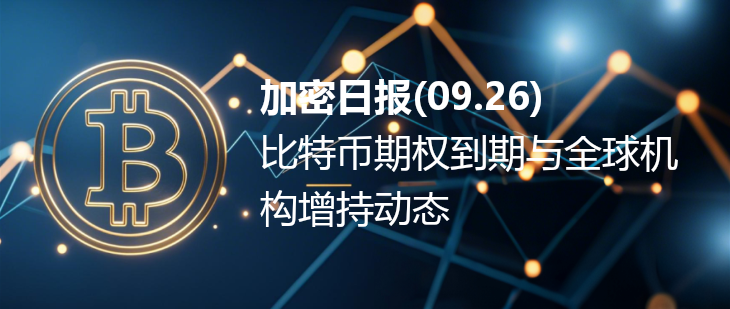
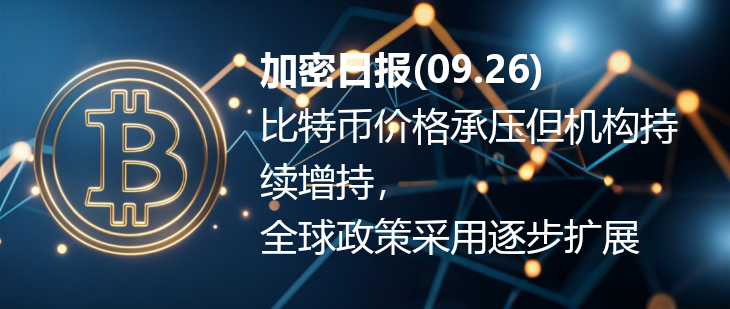
daily_news

Changed region(s): [[0.3315, 0.1748, 0.9342, 0.8447]]

diff --git a/files/latest_summary.md b/files/latest_summary.md
@@ -1,40 +1,46 @@
-### 一、比特币价格预测、期权到期及短期市场分析  
-**总结**：  
-1. 市场对2025年底比特币价格存在乐观预测，分析师Tom Lee预计其将达20-25万美元，以太坊目标1-1.2万美元，认为机构资金流入及合规优势是关键驱动因素。  
-2. 226亿美元比特币月度期权于周五到期，Deribit未平仓量达174亿美元，看涨期权占优，市场整体倾向多头，但需警惕跌破112,000美元的下行风险，112,000美元为动能关键位。  
-3. Deribit本周五将迎来15.4万枚BTC期权到期，名义价值173.8亿美元，最大痛点价11万美元，认沽认购比0.77，中性至看涨预期明显。  
-4. 比特币近期跌至两周低点108,865美元，亚洲交易时段卖盘削弱美国反弹，现货市场买卖比率首次倾向买家，显示当前价格需求增加。  
-5. 技术面分析显示比特币在111,000美元附近面临关键支撑，短期看跌信号明显，若跌破可能下探107,000美元，需关注112,000美元关口得失。  
+### 一、比特币价格波动与期权市场动态
+**总结**：
+1. 比特币近期价格波动较大，跌至两周低点，现货市场买家增加配置，112,000美元关口成为关键支撑位，跌破或下探107,000美元。
+2. 226亿美元比特币月度期权于周五到期，Deribit未平仓量达174亿美元，市场整体倾向多头，但需警惕跌破112,000美元的下行风险，看跌期权集中于110,000美元及以下。
+3. Deribit本周五将迎来15.4万枚BTC期权到期，名义价值173.8亿美元，最大痛点价11万美元，认沽认购比0.77，市场多空博弈激烈。
+4. 技术面显示比特币在111,000美元附近面临关键支撑，短期空头占优，长期移动平均线仍发出看涨信号，113,500美元为突破关键阻力位。
 
-**参考**：  
-- [Tom Lee：预计年底比特币（BTC）将涨至20-25 万美元，以太坊目标位1-1.2 万美元](https://cn.cointelegraph.com/news/tom-lee-projects-bitcoin-price-surge-to-dollar200k-dollar250k-targets-ethereum-at-dollar10k-dollar12k-by-year-end)  
-- [在226亿美元比特币（BTC）月度期权到期之际，多头占优但空头仍在潜伏](https://cn.cointelegraph.com/news/bitcoin-bulls-favored-in-22-6b-btc-monthly-options-expiry)  
-- [Deribit 本周五将迎来15.4 万枚BTC 期权到期，名义价值173.8 亿美元](https://finance.sina.com.cn/blockchain/roll/2025-09-26/doc-infrtuah0961231.shtml)  
-- [当价格跌至$111K时，多头如履薄冰，最后的防线](https://news.bitcoin.com/zh/bitcoin-jiage-guanchat-dang-jiage-dizhi-111k-shi-duotou-rulv-bobing-zuihou-de-fangxian/)  
-- [Bitcoin 跌至两周低点，现货买家增加配置](https://www.binance.com/cn/square/post/30173911710602)  
+**参考**：
+- [Bitcoin跌至两周低点，现货买家增加配置](https://www.binance.com/cn/square/post/30173911710602)
+- [在226亿美元比特币（BTC）月度期权到期之际，多头占优但空头仍在潜伏](https://cn.cointelegraph.com/news/bitcoin-bulls-favored-in-22-6b-btc-monthly-options-expiry)
+- [Deribit 本周五将迎来15.4 万枚BTC 期权到期，名义价值173.8 亿美元](https://finance.sina.com.cn/blockchain/roll/2025-09-26/doc-infrtuah0961231.shtml)
+- [当价格跌至$111K时，多头如履薄冰，最后的防线](https://news.bitcoin.com/zh/bitcoin-jiage-guanchat-dang-jiage-dizhi-111k-shi-duotou-rulv-bobing-zuihou-de-fangxian/)
 
 
-### 二、比特币资金流动与企业增持动态  
-**总结**：  
-1. 美国比特币ETF资金流入显著，10只比特币ETF今日净流入2186枚BTC，而以太坊ETF净流出29764枚ETH，显示市场对BTC需求较强。  
-2. 某新建地址近期从交易平台提取1,524枚比特币，价值约1.71亿美元，资金动向引发关注。  
-3. DDC Enterprise向资金库增加50个比特币，总持有量达1,058 BTC，平均成本108,665美元，目标2025年底累积10,000枚。  
-4. 纳斯达克上市公司POP Culture拟将比特币财库扩大至1000枚，以支持1亿美元数字潮流基金“Crypto Pop Fund”，此前已买入300枚。  
-5. Scilex Holding Company完成价值2亿美元的比特币交易，通过所持Semnur Pharmaceuticals普通股换取比特币，加密账户已收到该笔资金。  
+### 二、企业及机构对比特币的增持与战略采用
+**总结**：
+1. DDC Enterprise向资金库增加50个比特币，总持有量达1,058 BTC，价值8950万美元，平均成本108,665美元，目标年底累积10,000 BTC。
+2. 某新建地址近期从交易平台提取1,524枚比特币，价值约1.71亿美元，显示大额资金动向。
+3. 纳斯达克上市公司POP Culture拟将比特币财库规模扩大至1000枚BTC，以支持1亿美元数字潮流基金“Crypto Pop Fund”，上周已买入300枚。
+4. Scilex Holding Company完成价值2亿美元的比特币交易，通过所持Semnur Pharmaceuticals股票换取比特币，目前加密账户已收到该笔资金。
+5. 企业比特币采用率持续增长，2024年激增，70%企业未出售持有的比特币，95%计划扩大投资组合，将其视为长期价值保值工具以对冲通胀、分散资金。
 
-**参考**：  
-- [数据：今日10 只美国比特币ETF 净流入2186 枚BTC，9 只以太坊ETF 净流出29764 枚ETH](https://www.chaincatcher.com/article/2208546)  
-- [某新建地址近期增持1,524枚BTC，价值约1.71亿美元](https://www.odaily.news/zh-CN/newsflash/449919)  
-- [DDC Enterprise向资金库增加50个比特币](https://cn.investing.com/news/company-news/article-93CH-3001323)  
-- [POP Culture计划扩大比特币财库至1000枚以支持1亿美元基金](https://www.binance.com/zh-CN/square/post/09-25-2025-pop-culture-1000-1-30165325573513)  
-- [Scilex Holding Company 完成价值2 亿美元的比特币交易](https://www.binance.com/zh-CN/square/post/09-25-2025-scilex-holding-company-2-30159164570170)  
-
-
-### 三、比特币全球采用与企业战略  
-**总结**：  
-1. Bitcoin Policy Institute数据显示，全球已有27个国家积极持有或使用比特币，另有13个国家正在考虑相关提案，涉及储备、挖矿、养老金和税收等领域。  
-2. 企业界将比特币作为长期价值保值工具，2025年9月企业持有的比特币数量超683,332枚，占总供应量3.3%，自2020年增长587%；企业通过配置现金储备、利用公允市场价值报告等方式实现资本多元化，同时将比特币作为品牌推广工具。  
-
-**参考**：  
-- [Bitcoin Policy Institute：全球27 个国家积极持有或使用比特币](https://www.chaincatcher.com/article/2208553)  
+**参考**：
+- [DDC Enterprise向资金库增加50个比特币](https://cn.investing.com/news/company-news/article-93CH-3001323)
+- [某新建地址近期增持1,524枚BTC，价值约1.71亿美元](https://www.odaily.news/zh-CN/newsflash/449919)
+- [POP Culture计划扩大比特币财库至1000枚以支持1亿美元基金](https://www.binance.com/zh-CN/square/post/09-25-2025-pop-culture-1000-1-30165325573513)
+- [Scilex Holding Company 完成价值2 亿美元的比特币交易](https://www.binance.com/zh-CN/square/post/09-25-2025-scilex-holding-company-2-30159164570170)
 - [企业采用比特币：实现长期价值保值的财务管理战略转变](https://m.528btc.com/column/article/610194.html)
+
+
+### 三、比特币ETF资金流动情况
+**总结**：
+1. 今日10只美国比特币ETF净流入2186枚BTC，9只以太坊ETF净流出29764枚ETH，显示比特币ETF资金持续流入，而以太坊相关ETF资金流出。
+
+**参考**：
+- [比特币ETF今日净流入2186枚BTC](https://www.mitrade.com/cn/insights/news/live-news/article-3-1150409-20250925)
+- [数据：今日10 只美国比特币ETF 净流入2186 枚BTC，9 只以太坊ETF 净流出29764 枚ETH](https://www.chaincatcher.com/article/2208546)
+- [数据：今日10 只美国比特币ETF 净流入2186 枚BTC，9 只以太坊ETF 净流出29764 枚ETH](https://www.techflowpost.com/newsletter/detail_99926.html)
+
+
+### 四、比特币全球政策与采用范围扩展
+**总结**：
+1. Bitcoin Policy Institute数据显示，全球有27个国家积极持有或使用比特币，另有13个国家正在考虑相关提案，涉及储备、挖矿、养老金和税收等领域，比特币全球采用范围持续扩大。
+
+**参考**：
+- [Bitcoin Policy Institute：全球27 个国家积极持有或使用比特币](https://www.chaincatcher.com/article/2208553)

diff --git a/files/latest_summary_cleaned.md b/files/latest_summary_cleaned.md
@@ -1,17 +1,18 @@
-### 一、比特币价格预测、期权到期及短期市场分析  
-1. 市场对2025年底比特币价格存在乐观预测，分析师Tom Lee预计其将达20-25万美元，以太坊目标1-1.2万美元，认为机构资金流入及合规优势是关键驱动因素。  
-2. 226亿美元比特币月度期权于周五到期，Deribit未平仓量达174亿美元，看涨期权占优，市场整体倾向多头，但需警惕跌破112,000美元的下行风险，112,000美元为动能关键位。  
-3. Deribit本周五将迎来15.4万枚BTC期权到期，名义价值173.8亿美元，最大痛点价11万美元，认沽认购比0.77，中性至看涨预期明显。  
-4. 比特币近期跌至两周低点108,865美元，亚洲交易时段卖盘削弱美国反弹，现货市场买卖比率首次倾向买家，显示当前价格需求增加。  
-5. 技术面分析显示比特币在111,000美元附近面临关键支撑，短期看跌信号明显，若跌破可能下探107,000美元，需关注112,000美元关口得失。  
+### 一、比特币价格波动与期权市场动态
+1. 比特币近期价格波动较大，跌至两周低点，现货市场买家增加配置，112,000美元关口成为关键支撑位，跌破或下探107,000美元。
+2. 226亿美元比特币月度期权于周五到期，Deribit未平仓量达174亿美元，市场整体倾向多头，但需警惕跌破112,000美元的下行风险，看跌期权集中于110,000美元及以下。
+3. Deribit本周五将迎来15.4万枚BTC期权到期，名义价值173.8亿美元，最大痛点价11万美元，认沽认购比0.77，市场多空博弈激烈。
+4. 技术面显示比特币在111,000美元附近面临关键支撑，短期空头占优，长期移动平均线仍发出看涨信号，113,500美元为突破关键阻力位。
 
-### 二、比特币资金流动与企业增持动态  
-1. 美国比特币ETF资金流入显著，10只比特币ETF今日净流入2186枚BTC，而以太坊ETF净流出29764枚ETH，显示市场对BTC需求较强。  
-2. 某新建地址近期从交易平台提取1,524枚比特币，价值约1.71亿美元，资金动向引发关注。  
-3. DDC Enterprise向资金库增加50个比特币，总持有量达1,058 BTC，平均成本108,665美元，目标2025年底累积10,000枚。  
-4. 纳斯达克上市公司POP Culture拟将比特币财库扩大至1000枚，以支持1亿美元数字潮流基金“Crypto Pop Fund”，此前已买入300枚。  
-5. Scilex Holding Company完成价值2亿美元的比特币交易，通过所持Semnur Pharmaceuticals普通股换取比特币，加密账户已收到该笔资金。  
+### 二、企业及机构对比特币的增持与战略采用
+1. DDC Enterprise向资金库增加50个比特币，总持有量达1,058 BTC，价值8950万美元，平均成本108,665美元，目标年底累积10,000 BTC。
+2. 某新建地址近期从交易平台提取1,524枚比特币，价值约1.71亿美元，显示大额资金动向。
+3. 纳斯达克上市公司POP Culture拟将比特币财库规模扩大至1000枚BTC，以支持1亿美元数字潮流基金“Crypto Pop Fund”，上周已买入300枚。
+4. Scilex Holding Company完成价值2亿美元的比特币交易，通过所持Semnur Pharmaceuticals股票换取比特币，目前加密账户已收到该笔资金。
+5. 企业比特币采用率持续增长，2024年激增，70%企业未出售持有的比特币，95%计划扩大投资组合，将其视为长期价值保值工具以对冲通胀、分散资金。
 
-### 三、比特币全球采用与企业战略  
-1. Bitcoin Policy Institute数据显示，全球已有27个国家积极持有或使用比特币，另有13个国家正在考虑相关提案，涉及储备、挖矿、养老金和税收等领域。  
-2. 企业界将比特币作为长期价值保值工具，2025年9月企业持有的比特币数量超683,332枚，占总供应量3.3%，自2020年增长587%；企业通过配置现金储备、利用公允市场价值报告等方式实现资本多元化，同时将比特币作为品牌推广工具。  
+### 三、比特币ETF资金流动情况
+1. 今日10只美国比特币ETF净流入2186枚BTC，9只以太坊ETF净流出29764枚ETH，显示比特币ETF资金持续流入，而以太坊相关ETF资金流出。
+
+### 四、比特币全球政策与采用范围扩展
+1. Bitcoin Policy Institute数据显示，全球有27个国家积极持有或使用比特币，另有13个国家正在考虑相关提案，涉及储备、挖矿、养老金和税收等领域，比特币全球采用范围持续扩大。
